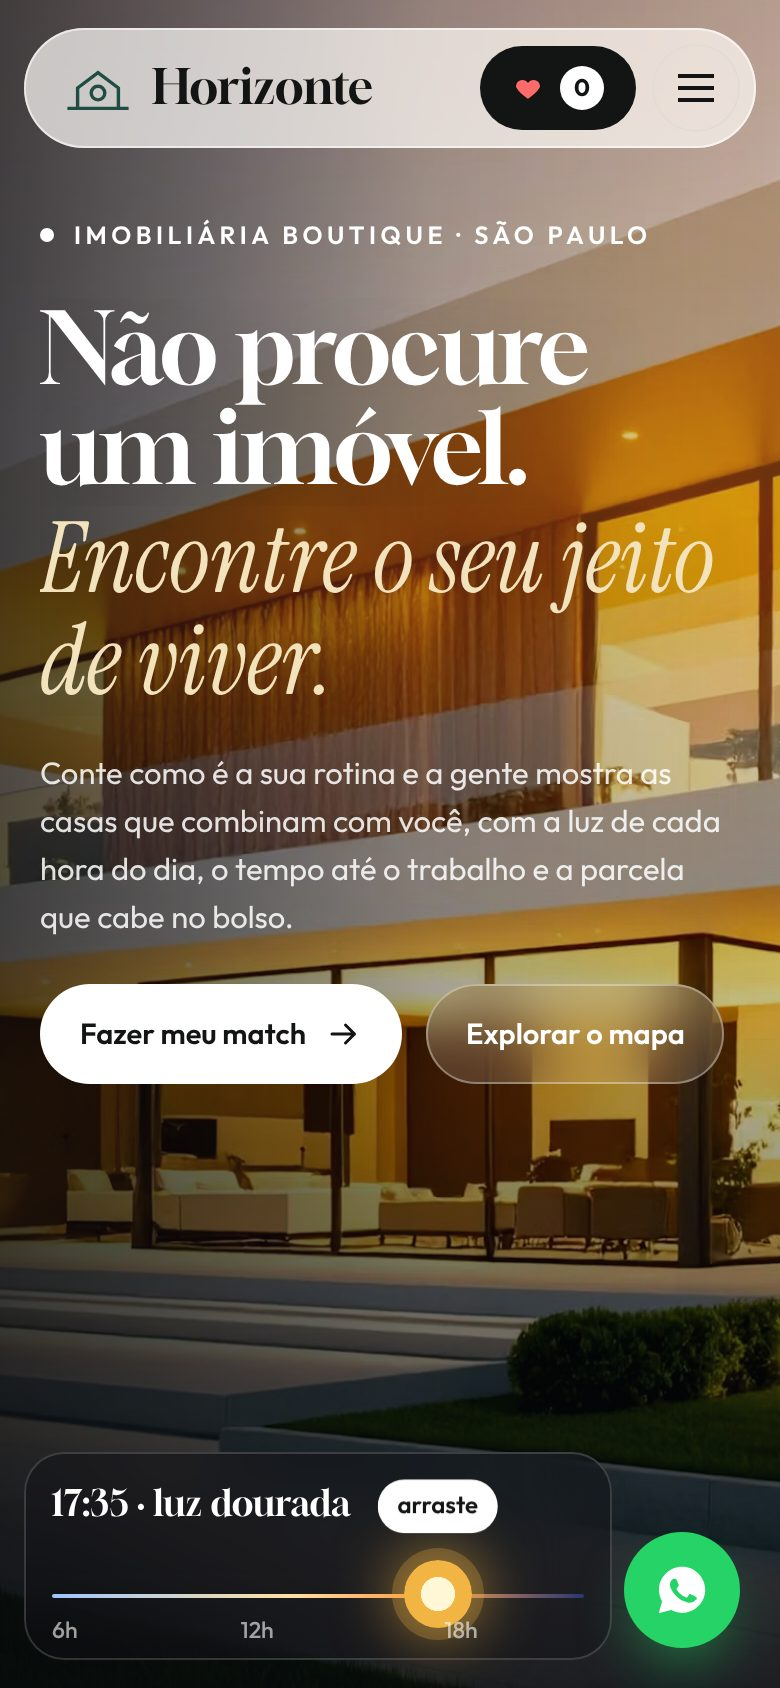
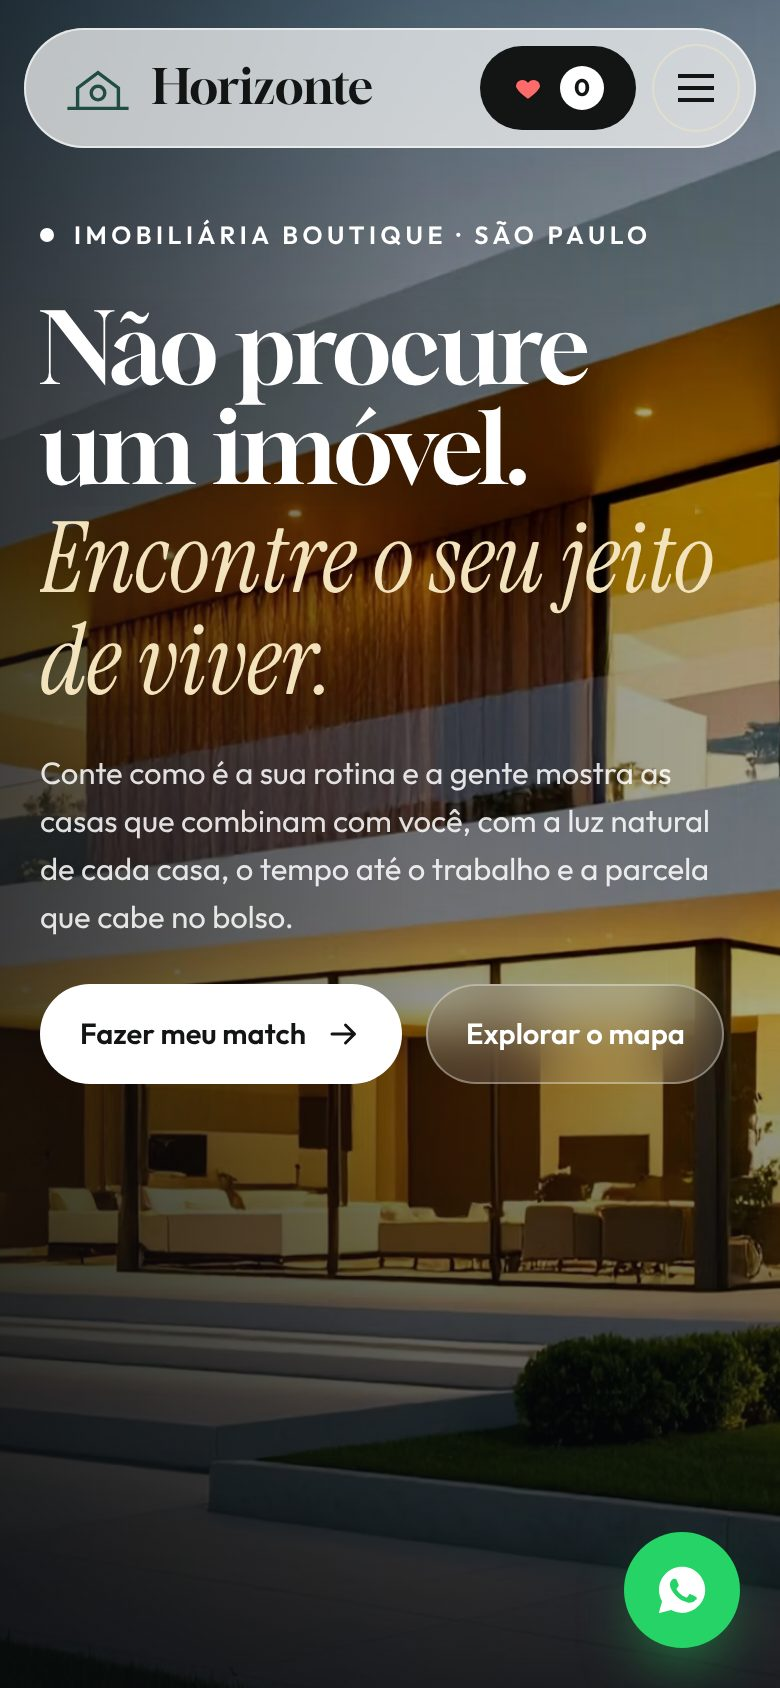
Horizonte: sem o sol arrastável e página finalizada
- Removida a barra de arrastar o sol do hero e as camadas de luz do dia;
  a foto da casa fica fixa com um leve zoom de entrada
- Texto do hero ajustado para a luz natural de cada casa
- Catálogo: Horizonte marcada como finalizada, descrição e capas
  atualizadas

Claude-Session: https://claude.ai/code/session_01QmiPwcu1vZC3FNQj5DnVy9

diff --git a/modelos/horizonte-imoveis/index.html b/modelos/horizonte-imoveis/index.html
@@ -68,16 +68,13 @@
   .burger { display: none; width: 44px; height: 44px; border-radius: 50%; box-shadow: inset 0 0 0 1px var(--line); place-items: center; }
   .burger span { width: 18px; height: 2px; background: var(--ink); box-shadow: 0 6px 0 var(--ink), 0 -6px 0 var(--ink); }
 
-  /* HERO: arraste o sol */
+  /* HERO */
   .hero { position: relative; height: 100vh; height: 100svh; min-height: 620px; overflow: hidden; color: #fff; background: #0e1018; }
   .hero__foto { position: absolute; inset: -3%; will-change: transform; }
-  .hero__foto img { position: absolute; inset: 0; width: 100%; height: 100%; object-fit: cover; object-position: 50% 60%; }
-  .hero__luzes { mix-blend-mode: lighten; filter: brightness(1) contrast(2.6) saturate(1.15); opacity: 0; }
-  .hero__ceu { position: absolute; inset: 0; pointer-events: none; mix-blend-mode: screen; }
-  .hero__azul { position: absolute; inset: 0; background: linear-gradient(180deg, #0c1638, #1c2a55 55%, #0c1020); mix-blend-mode: multiply; opacity: 0; pointer-events: none; }
-  .hero__quente { position: absolute; inset: 0; background: radial-gradient(90% 70% at 85% 30%, #ffb35c, transparent 70%); mix-blend-mode: soft-light; opacity: 0; pointer-events: none; }
+  .hero__foto img { position: absolute; inset: 0; width: 100%; height: 100%; object-fit: cover; object-position: 50% 60%; animation: kb 18s ease-out forwards; }
+  @keyframes kb { from { transform: scale(1.12); } to { transform: none; } }
   .hero__veu { position: absolute; inset: 0; background: linear-gradient(90deg, rgba(8,10,12,.62), rgba(8,10,12,.15) 55%, rgba(8,10,12,0)), linear-gradient(0deg, rgba(8,10,12,.75), rgba(8,10,12,0) 40%); pointer-events: none; }
-  .hero__in { position: relative; z-index: 2; height: 100%; display: flex; flex-direction: column; justify-content: center; padding: 120px 0 170px; }
+  .hero__in { position: relative; z-index: 2; height: 100%; display: flex; flex-direction: column; justify-content: center; padding: 120px 0 90px; }
   .hero__in .over { color: #fff; }
   .hero h1 { font-size: min(6vw, 10.5vh, 100px); max-width: 980px; margin-top: 22px; text-shadow: 0 6px 40px rgba(0,0,0,.25); }
   .hero h1 em { color: #f3e3bd; }
@@ -86,19 +83,6 @@
   @keyframes sobe { to { transform: none; } }
   .hero p.lead { margin-top: 22px; max-width: 500px; font-size: clamp(16px, 1.3vw, 19px); color: rgba(255,255,255,.86); }
   .hero__ctas { display: flex; gap: 12px; flex-wrap: wrap; margin-top: 30px; }
-  .sol { position: absolute; z-index: 3; left: 50%; bottom: 24px; transform: translateX(-50%); width: var(--wrap); padding: 18px 22px 16px; border-radius: 24px; background: rgba(12,14,18,.38); backdrop-filter: blur(18px); -webkit-backdrop-filter: blur(18px); box-shadow: inset 0 0 0 1px rgba(255,255,255,.16); }
-  .sol__top { display: flex; justify-content: space-between; align-items: baseline; gap: 16px; flex-wrap: wrap; }
-  .sol__top b { font-family: var(--serif); font-weight: 400; font-size: 22px; }
-  .sol__top b span { font-variant-numeric: tabular-nums; }
-  .sol__top small { color: rgba(255,255,255,.75); font-size: 13.5px; }
-  .sol__trilho { position: relative; height: 46px; margin-top: 8px; }
-  .sol__trilho::before { content: ""; position: absolute; left: 0; right: 0; top: 50%; height: 2px; background: linear-gradient(90deg, #9ec5ff, #ffe1a1 45%, #ff9b52 68%, #2b3870); border-radius: 2px; }
-  .sol__marcas { position: absolute; left: 0; right: 0; bottom: -4px; display: flex; justify-content: space-between; font-size: 11.5px; color: rgba(255,255,255,.6); font-weight: 500; pointer-events: none; }
-  .sol input { position: absolute; inset: 0; width: 100%; height: 100%; opacity: 0; cursor: grab; z-index: 2; margin: 0; }
-  .sol__knob { position: absolute; top: 50%; left: 0; width: 34px; height: 34px; margin: -17px 0 0 -17px; border-radius: 50%; background: radial-gradient(circle, #fff7d6 0 35%, var(--sun) 36%); box-shadow: 0 0 0 6px rgba(242,181,68,.25), 0 0 30px 6px rgba(242,181,68,.55); pointer-events: none; transition: background .4s, box-shadow .4s; }
-  .sol__knob.lua { background: radial-gradient(circle at 38% 38%, #fffdf2 0 45%, #d9d4bd 46%); box-shadow: 0 0 0 6px rgba(255,255,255,.15), 0 0 26px 4px rgba(220,225,255,.45); }
-  .sol__dica { position: absolute; top: -32px; left: 0; transform: translateX(-50%); padding: 4px 10px; border-radius: 999px; background: #fff; color: var(--ink); font-size: 12px; font-weight: 600; white-space: nowrap; pointer-events: none; animation: dica 2s ease-in-out infinite; }
-  @keyframes dica { 50% { transform: translate(-50%, -4px); } }
 
   /* MATCH */
   .match { padding: 130px 0 120px; }
@@ -321,14 +305,9 @@
     .hero p.lead { font-size: 15.5px; margin-top: 16px; }
     .hero__ctas { margin-top: 22px; }
     .hero__ctas .btn { padding: 14px 20px; font-size: 14.5px; }
-    .sol { padding: 12px 14px 10px; bottom: 14px; left: 12px; right: 84px; width: auto; transform: none; border-radius: 20px; }
-    .sol__top small { display: none; }
-    .sol__marcas span:nth-child(even) { visibility: hidden; }
-    .bairro text { font-size: 17px; }
+          .bairro text { font-size: 17px; }
     .bairro text.m2 { display: none; }
-    .sol__top b { font-size: 18px; }
-    .sol__top small { font-size: 12.5px; }
-    .match { padding: 100px 0 90px; }
+        .match { padding: 100px 0 90px; }
     .match__grid { grid-template-columns: 1fr; }
     .painel { position: static; padding: 20px; border-radius: 24px; gap: 20px; }
     .cards { grid-template-columns: 1fr; }
@@ -391,26 +370,13 @@
 <section class="hero" id="topo">
   <div class="hero__foto" id="heroFoto">
     <img class="hero__base" id="heroBase" src="https://images.unsplash.com/photo-1748063578185-3d68121b11ff?w=2200&q=80&auto=format&fit=crop" alt="Residência contemporânea em Vila Nova Conceição" fetchpriority="high" />
-    <img class="hero__luzes" id="heroLuzes" src="https://images.unsplash.com/photo-1748063578185-3d68121b11ff?w=2200&q=80&auto=format&fit=crop" alt="" />
   </div>
-  <div class="hero__ceu" id="heroCeu"></div>
-  <div class="hero__quente" id="heroQuente"></div>
-  <div class="hero__azul" id="heroAzul"></div>
   <div class="hero__veu"></div>
   <div class="wrap hero__in">
     <span class="over">Imobiliária boutique · São Paulo</span>
     <h1><span class="ln"><span style="--d:.05s">Não procure um imóvel.</span></span><span class="ln"><span style="--d:.18s"><em>Encontre o seu jeito de viver.</em></span></span></h1>
-    <p class="lead">Conte como é a sua rotina e a gente mostra as casas que combinam com você, com a luz de cada hora do dia, o tempo até o trabalho e a parcela que cabe no bolso.</p>
+    <p class="lead">Conte como é a sua rotina e a gente mostra as casas que combinam com você, com a luz natural de cada casa, o tempo até o trabalho e a parcela que cabe no bolso.</p>
     <div class="hero__ctas"><a href="#match" class="btn btn--ink" style="background:#fff;color:var(--ink)">Fazer meu match <svg><use href="#i-seta" /></svg></a><a href="#mapa" class="btn btn--glass">Explorar o mapa</a></div>
-  </div>
-  <div class="sol" id="sol">
-    <div class="sol__top"><b><span id="solHora">17:40</span> · <span id="solNome">luz dourada</span></b><small id="solTxt">Arraste o sol e veja a Residência Vila Nova Conceição em qualquer hora do dia</small></div>
-    <div class="sol__trilho">
-      <input type="range" id="solR" min="6" max="22" step=".05" value="17.6" aria-label="Hora do dia" />
-      <span class="sol__knob" id="solK"></span>
-      <span class="sol__dica" id="solDica">arraste</span>
-      <div class="sol__marcas"><span>6h</span><span>9h</span><span>12h</span><span>15h</span><span>18h</span><span>22h</span></div>
-    </div>
   </div>
 </section>
 
@@ -513,35 +479,6 @@
   let navY = scrollY;
   addEventListener("scroll", () => { const y = scrollY, d = y - navY; if (Math.abs(d) > 6) { nav.classList.toggle("esconde", d > 0 && y > 500 && !nav.classList.contains("aberto")); navY = y; } }, { passive: true });
 
-  /* ===== HERO: arraste o sol ===== */
-  const solR = $("#solR"), solK = $("#solK"), base = $("#heroBase"), luzes = $("#heroLuzes"), ceu = $("#heroCeu"), quente = $("#heroQuente"), azul = $("#heroAzul");
-  const FASES = [[6, "nascer do sol", "Luz suave entrando pela fachada leste"], [8.5, "manhã clara", "Sol da manhã nas suítes, voltadas para o leste"], [12, "meio-dia", "Varanda sombreada pelo beiral de 2 metros"], [15, "tarde", "Piscina pega sol até as 16h30"], [17, "luz dourada", "Pôr do sol de frente para a sala, fachada oeste"], [18.6, "anoitecer", "Iluminação de jardim acende sozinha às 18h30"], [20, "noite", "Casa iluminada e jardim em silêncio"]];
-  const KEYS = [ // hora, brilho, saturação, contraste, quente, azul, luzes, céu [r,g,b,a]
-    [6, 1.12, .85, .96, .55, .12, .05, [255, 165, 120, .6]], [9, 1.5, .9, .9, 0, 0, 0, [140, 190, 255, .85]], [12, 1.62, .95, .9, 0, 0, 0, [160, 205, 255, .9]],
-    [15, 1.42, 1, .94, .25, 0, 0, [255, 210, 150, .6]], [17.6, 1.05, 1.12, 1.02, .75, 0, .12, [255, 135, 60, .5]], [19, .66, .95, 1.06, .25, .55, .85, [40, 55, 140, .35]], [22, .4, .85, 1.12, 0, .88, 1, [5, 10, 40, .2]],
-  ];
-  function aplicaSol(h) {
-    let i = 0; while (i < KEYS.length - 2 && h > KEYS[i + 1][0]) i++;
-    const A = KEYS[i], B = KEYS[i + 1], t = clamp((h - A[0]) / (B[0] - A[0])), m = (k) => lerp(A[k], B[k], t);
-    base.style.filter = `brightness(${m(1)}) saturate(${m(2)}) contrast(${m(3)})`;
-    quente.style.opacity = m(4); azul.style.opacity = m(5); luzes.style.opacity = m(6);
-    const c = A[7].map((v, k) => k < 3 ? Math.round(lerp(v, B[7][k], t)) : lerp(v, B[7][k], t).toFixed(2));
-    ceu.style.background = `linear-gradient(180deg, rgba(${c.join(",")}) 0%, rgba(${c.slice(0, 3).join(",")},0) 62%)`;
-    const pct = (h - 6) / 16;
-    solK.style.left = pct * 100 + "%"; $("#solDica").style.left = pct * 100 + "%";
-    solK.classList.toggle("lua", h > 19.2);
-    const hh = Math.floor(h), mm = Math.floor((h - hh) * 60 / 5) * 5;
-    $("#solHora").textContent = `${String(hh).padStart(2, "0")}:${String(mm).padStart(2, "0")}`;
-    const f = [...FASES].reverse().find((x) => h >= x[0]) || FASES[0];
-    $("#solNome").textContent = f[1]; $("#solTxt").textContent = f[2];
-  }
-  let solMexeu = false;
-  solR.addEventListener("input", () => { solMexeu = true; $("#solDica").style.display = "none"; aplicaSol(+solR.value); });
-  aplicaSol(+solR.value);
-  if (!calmo) { // demonstração: o dia passa sozinho na primeira vez
-    const t0 = performance.now(), de = 9, ate = 17.6, dur = 3200;
-    setTimeout(() => { const anima = (t) => { if (solMexeu) return; const k = clamp((t - t0 - 900) / dur), e = 1 - Math.pow(1 - k, 3), h = lerp(de, ate, e); solR.value = h; aplicaSol(h); if (k < 1) requestAnimationFrame(anima); }; requestAnimationFrame(anima); }, 0);
-  }
   const heroFoto = $("#heroFoto");
   if (fino && !calmo) addEventListener("pointermove", (e) => { if (scrollY > innerHeight) return; heroFoto.style.transform = `translate(${(e.clientX / innerWidth - .5) * -16}px, ${(e.clientY / innerHeight - .5) * -10}px) scale(1.02)`; }, { passive: true });
 

diff --git a/catalogo.js b/catalogo.js
@@ -102,8 +102,9 @@ window.MODELOS = [
   {
     pasta: "horizonte-imoveis",
     titulo: "Horizonte Imóveis",
+    revisado: true,
     segmento: "Imobiliária",
-    descricao: "Imobiliária com match de estilo de vida que reordena os imóveis, sol arrastável para ver a casa em qualquer hora do dia, mapa vivo dos bairros, ficha com luz natural e tempo até o trabalho e comparador de favoritos.",
+    descricao: "Imobiliária com match de estilo de vida que reordena os imóveis, mapa vivo dos bairros, ficha com luz natural e tempo até o trabalho e comparador de favoritos.",
     tags: ["Match de estilo de vida", "Mapa vivo", "Comparador"],
     cor: "#2d6b5d",
   },
